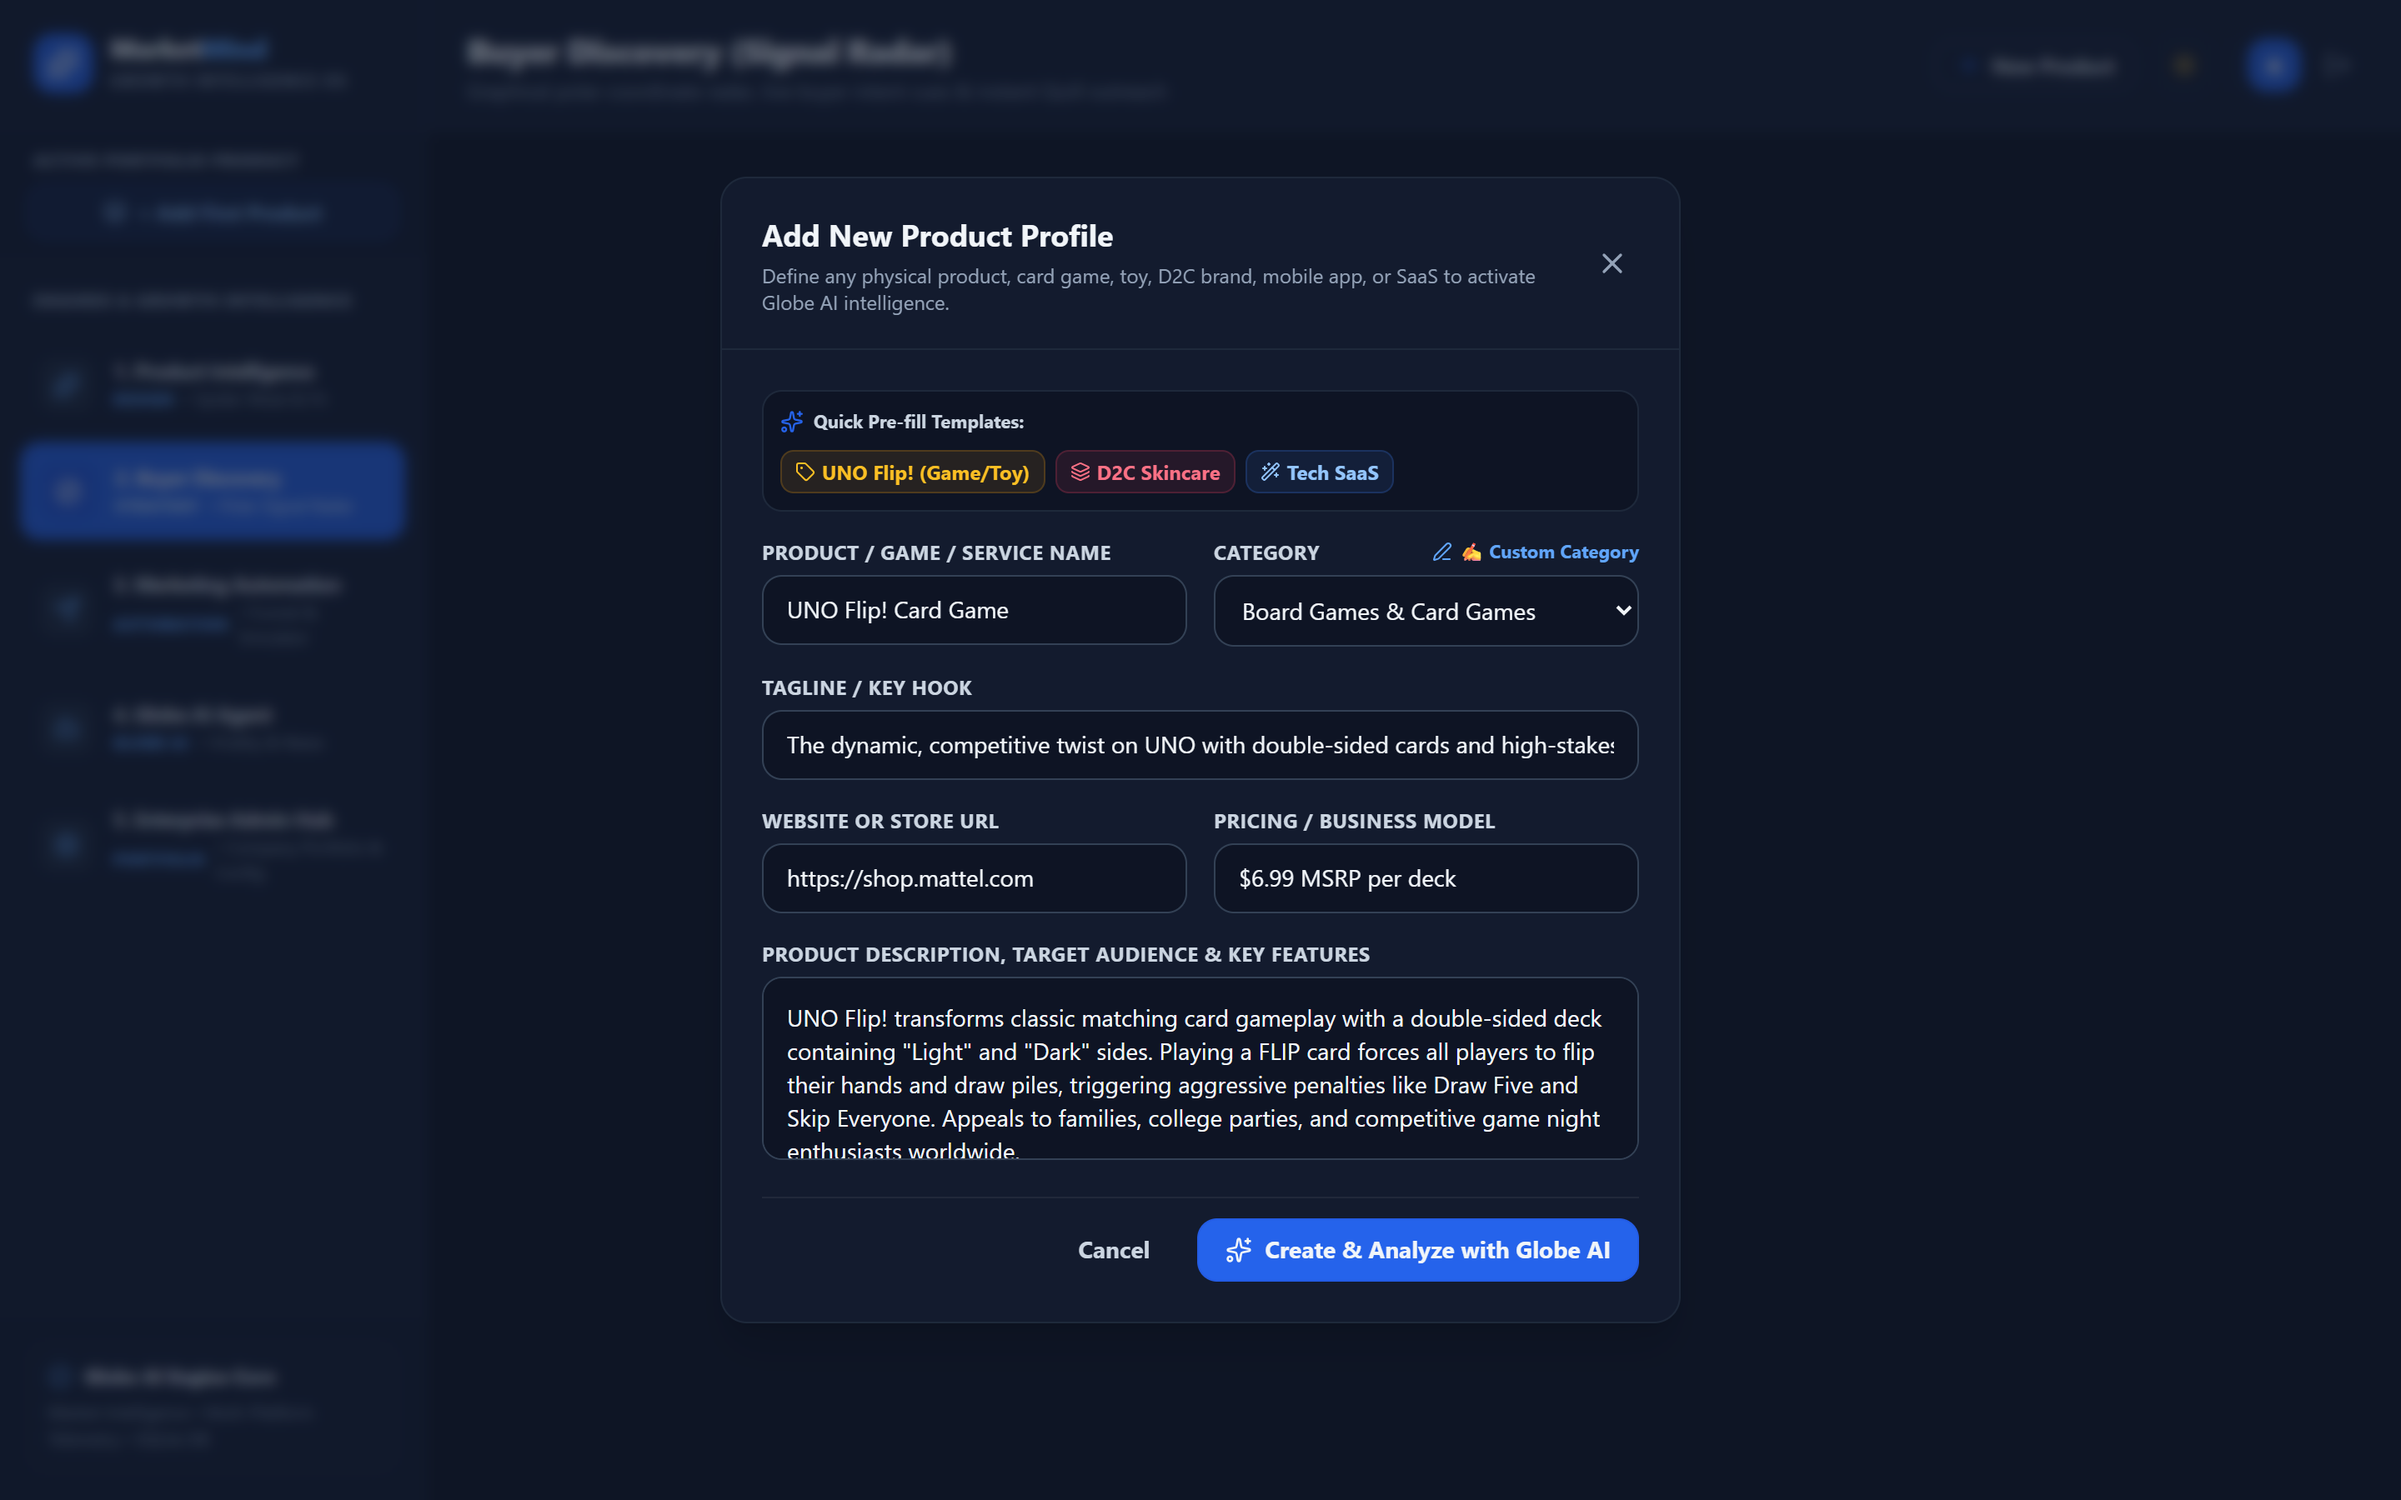
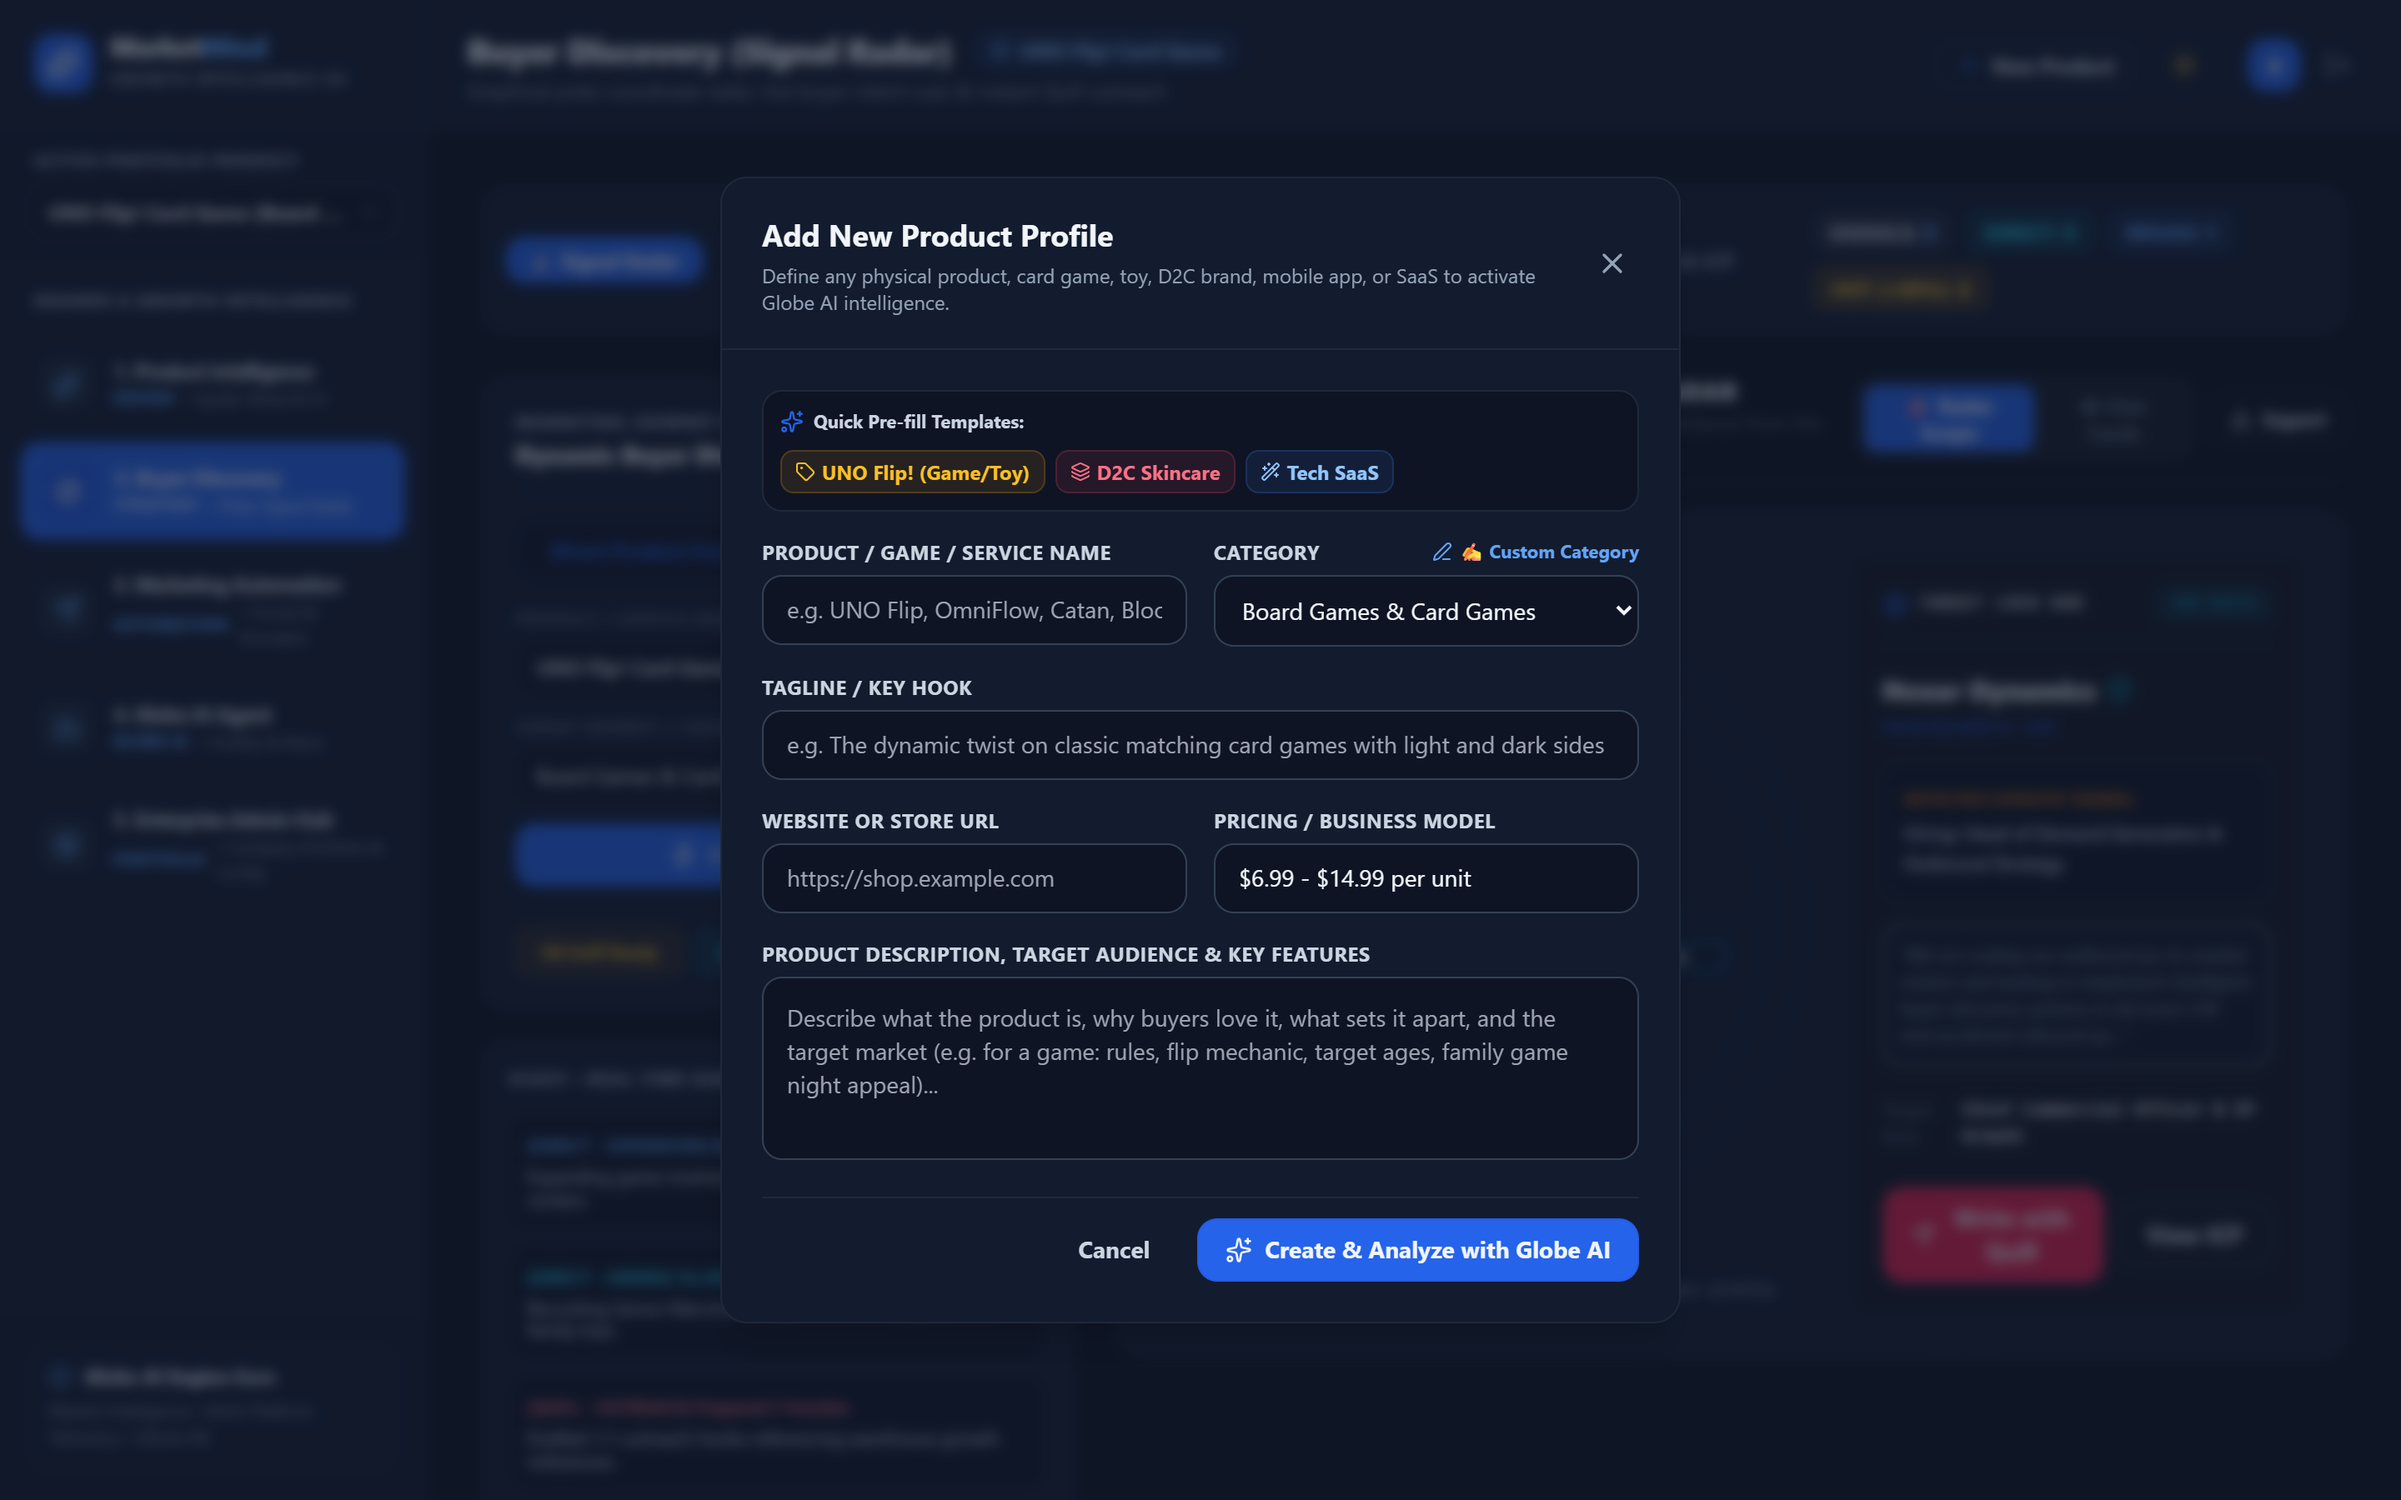
docs: add 10 distinct screenshots capturing all engines and sub-tabs in dark and light modes

diff --git a/README.md b/README.md
@@ -12,41 +12,50 @@
 
 ---
 
-## 📸 Interface Showcase (Dark & Light Modes)
+## 📸 Interface Showcase (All Pages Across Dark & Light Modes)
 
-### 1. Polar Signal Radar & Live Buyer Discovery
-*Real-time polar coordinate radar plotting prospective buyer accounts by intent distance, featuring verified live-web catalyst triggers and instant executive outreach drafts.*
+### 1. Engine 1: Product Intelligence & 5-Axis Spider Moat
+*Automated value proposition framing, 5-axis competitive defensibility analysis, customer persona synthesis, and commercial unit economics.*
 
-| Dark Mode (Tactical Radar Scope) | Light Mode (Sales & Distribution Intelligence) |
+| Dark Mode: Spider Moat & Fit Pentagon | Light Mode: Buyer Personas & Unit Economics |
 | :---: | :---: |
-| ![Buyer Discovery Radar](screenshots/03_buyer_discovery_radar_dark.png) | ![Sales & Distribution Intel](screenshots/04_buyer_discovery_sales_light.png) |
+| ![Spider Moat Pentagon](screenshots/01_product_intelligence_moat_dark.png) | ![Personas and Economics](screenshots/02_product_intelligence_personas_light.png) |
 
 ---
 
-### 2. Product Intelligence & 5-Axis Spider Moat
-*Automated value proposition framing, comprehensive customer persona generation, competitor battlecards, and defensible moat evaluation.*
+### 2. Engine 2: Buyer Discovery — Polar Signal Radar & Target Lock HUD
+*Real-time polar coordinate radar plotting prospective buyer accounts by intent distance (70%, 80%, 90% Hot Core), active target blip locks, and instant Quill executive outreach.*
 
-| Dark Mode (Spider Moat & Fit Assessment) | Light Mode (Executive Summary & Unit Economics) |
+| Dark Mode: Polar Coordinate Signal Radar | Light Mode: Sales & Retail Distribution Intel |
 | :---: | :---: |
-| ![Product Intelligence Dark](screenshots/01_product_intelligence_dark.png) | ![Product Intelligence Light](screenshots/02_product_intelligence_light.png) |
+| ![Polar Signal Radar](screenshots/03_buyer_discovery_radar_dark.png) | ![Sales Distribution](screenshots/04_buyer_discovery_sales_light.png) |
 
 ---
 
-### 3. Marketing Automation & Revenue Forecasting
-*Dynamic conversion funnel simulator and algorithm-grounded multi-channel campaign playbooks for email, LinkedIn, and social distribution.*
+### 3. Engine 2: Buyer Discovery — Signal Matrix, Timeline & Urgency Tiers
+*Chronological radar telemetry tracking hiring triggers, inventory warehouse expansions, and RFP catalysts with verbatim public evidence.*
 
-| Light Mode (Funnel & Revenue Simulator) | Dark Mode (Campaign Playbooks & Asset Review) |
+| Dark Mode: Signal Matrix & Catalyst Timeline | Light Mode: Urgency Matrix & Tiered Leads |
 | :---: | :---: |
-| ![Marketing Automation Funnel](screenshots/06_marketing_automation_funnel_light.png) | ![Campaign Simulator](screenshots/07_marketing_automation_campaigns_dark.png) |
+| ![Signal Matrix and Timeline](screenshots/05_buyer_discovery_matrix_dark.png) | ![Urgency Matrix](screenshots/06_buyer_discovery_urgency_light.png) |
 
 ---
 
-### 4. Globe AI Strategic Copilot & Enterprise Admin Hub
-*Dedicated growth strategist with real-time news grounding alongside the central company portfolio command hub.*
+### 4. Engine 3: Marketing Automation — Conversion Funnel & Campaign Assets
+*Dynamic conversion funnel simulator adjusting traffic, CTR, conversion rates, and ACV alongside 3-stage email sequences and viral LinkedIn playbooks.*
 
-| Dark Mode (Globe AI Marketing Agent) | Light Mode (Enterprise Admin Hub) |
+| Light Mode: Conversion Funnel & Simulator | Dark Mode: Multi-Stage Campaign Playbooks |
 | :---: | :---: |
-| ![Globe AI Marketing Agent](screenshots/08_globe_ai_agent_chat_dark.png) | ![Enterprise Admin Hub](screenshots/09_enterprise_admin_hub_light.png) |
+| ![Conversion Funnel](screenshots/07_marketing_automation_funnel_light.png) | ![Campaign Playbooks](screenshots/08_marketing_automation_campaigns_dark.png) |
+
+---
+
+### 5. Engine 4 & 5: Globe AI Growth Copilot & Enterprise Admin Hub
+*Dedicated growth strategist with real-time social algorithm shift intelligence, alongside the central company portfolio command center with global webhook dispatching.*
+
+| Dark Mode: Globe AI Marketing Copilot | Light Mode: Enterprise Admin Hub & Webhooks |
+| :---: | :---: |
+| ![Globe AI Agent Chat](screenshots/09_globe_ai_agent_chat_dark.png) | ![Enterprise Admin Hub](screenshots/10_enterprise_admin_hub_light.png) |
 
 ---
 
